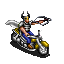
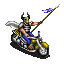
damage bar bug

Changed region(s): [[0.0625, 0.0625, 0.9375, 0.9062], [0.4375, 0.8438, 0.625, 0.9062], [0.625, 0.9062, 0.7188, 0.9375]]

diff --git a/public/maploader.js b/public/maploader.js
@@ -109,7 +109,7 @@ function getDamageBar(bat) {
         degNum = 4;
     } else if (degPerc < 86) {
         degNum = 5;
-    } else if (degPerc === 100 && bat.damage > 1) {
+    } else if (degPerc < 100 || (degPerc == 100 && bat.damage > 1)) {
         degNum = 6;
     }
     return degNum;
